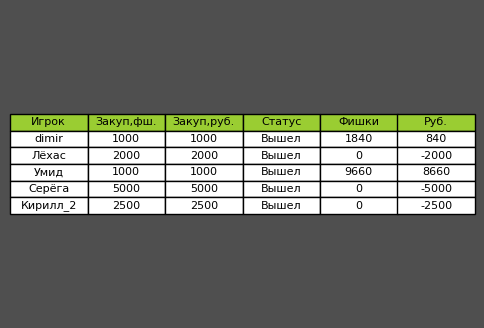
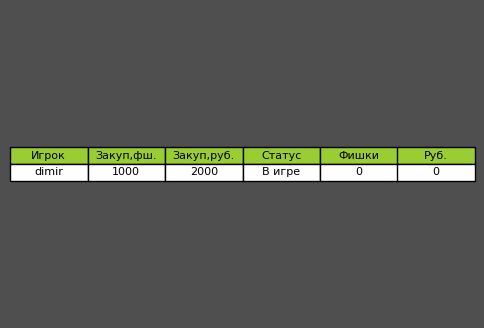
Добавили часть запросов к БД

Changed region(s): [[0.0, 0.3354, 0.9917, 0.6707]]

diff --git a/utils/game_utils.py b/utils/game_utils.py
@@ -9,6 +9,7 @@ from keyboards.inline_kbs import (input_player_game_kb, start_game_kb, game_keyb
                                   back_players_keyboards, extra_players_keyboards)
 from db_hadler.db_class import Database
 from create_bot import bot
+from servise import create_game_db, get_players_db
 
 pd.set_option('display.max_columns', None)  # Настройка таблицы pandas
 game_users = list()  # Список всех игроков в базе данных
@@ -43,7 +44,9 @@ def player_input(text):
 async def update_users():
     """Обновляем список игроков с базы данных"""
     global game_users
-    game_users = await Database.get_users_bd()
+    users = await get_players_db()
+    game_users = [user.login for user in users]
+    # game_users = await Database.get_users_bd()
 
 
 async def get_users():
@@ -62,7 +65,7 @@ async def get_count():
     return count
 
 
-def get_players():
+async def get_players():
     """Получить список игроков текущей игры"""
     return player_list
 
@@ -244,11 +247,12 @@ async def text_game():
 
 async def game_utils(call: CallbackQuery):
     """Оформление сообщения процесса игры"""
-    global start_status
+    global start_status, date, game_id
     if not start_status:
-        await Database.insert_new_game(count=count)
-        await update_date()
-        await update_game_id()
+        date, game_id = await create_game_db(count=count)
+        # await Database.insert_new_game(count=count)
+        # await update_date()
+        # await update_game_id()
         text = await text_game()
         photo = FSInputFile('game_image.png')
         start_status = True

diff --git a/handlers/player.py b/handlers/player.py
@@ -7,9 +7,7 @@ from aiogram.fsm.state import State, StatesGroup
 from aiogram.utils.chat_action import ChatActionSender
 
 from create_bot import bot
-from db_hadler.db_class import Database
-from db_hadler.database import db
-from repositories import PlayerRepository
+from servise import create_player_db
 
 player_router = Router()
 
@@ -48,16 +46,5 @@ async def new_player_end(message: Message, state: FSMContext):
     await state.clear()
     async with ChatActionSender.typing(bot=bot, chat_id=message.from_user.id):
         await asyncio.sleep(2)
-
-
-
-        async with db.session() as session:
-            repo = PlayerRepository(session)
-            player = await repo.get_by_login(message.text)
-
-            if player:
-                await message.answer("Вы уже зарегистрированы!")
-                return
-
-            player = await repo.create(message.text)
-            await message.answer(f'Готовь свои бабки 💲 {player.login}', reply_markup=None)
+        result = await create_player_db(message.text)
+        await message.answer(result, reply_markup=None)

diff --git a/alembic/versions/877da2a2d961_initial_migration.py b/alembic/versions/877da2a2d961_initial_migration.py
@@ -1,0 +1,32 @@
+"""Initial migration
+
+Revision ID: 877da2a2d961
+Revises: 163047d77095
+Create Date: 2025-05-22 23:07:51.129143
+
+"""
+from typing import Sequence, Union
+
+from alembic import op
+import sqlalchemy as sa
+
+
+# revision identifiers, used by Alembic.
+revision: str = '877da2a2d961'
+down_revision: Union[str, None] = '163047d77095'
+branch_labels: Union[str, Sequence[str], None] = None
+depends_on: Union[str, Sequence[str], None] = None
+
+
+def upgrade() -> None:
+    """Upgrade schema."""
+    # ### commands auto generated by Alembic - please adjust! ###
+    pass
+    # ### end Alembic commands ###
+
+
+def downgrade() -> None:
+    """Downgrade schema."""
+    # ### commands auto generated by Alembic - please adjust! ###
+    pass
+    # ### end Alembic commands ###

diff --git a/servise/player.py b/servise/player.py
@@ -1,0 +1,22 @@
+from db_hadler.database import db
+from repositories import PlayerRepository
+
+
+async def create_player_db(login: str):
+    async with db.session() as session:
+        repo = PlayerRepository(session)
+        player = await repo.get_by_login(login)
+
+        if player:
+            return "Вы уже зарегистрированы!"
+
+        player = await repo.create(login)
+        return f'Готовь свои бабки 💲 {player.login}'
+
+
+async def get_players_db():
+    async with db.session() as session:
+        repo = PlayerRepository(session)
+        players = await repo.get_all_login()
+        print(players)
+        return players

diff --git a/repositories/game.py b/repositories/game.py
@@ -10,8 +10,8 @@ class GameRepository(BaseRepository):
         )
         return result.scalar_one_or_none()
 
-    async def create(self, login: str) -> Game:
-        player = Game(login=login)
-        self.session.add(player)
+    async def create(self, count: int) -> Game:
+        game = Game(count=count)
+        self.session.add(game)
         await self.session.flush()
-        return player
+        return game

diff --git a/models/game.py b/models/game.py
@@ -19,7 +19,7 @@ class Game(Base):
     id: Mapped[int] = mapped_column(autoincrement=True, primary_key=True, index=True)
     date: Mapped[TIMESTAMP] = mapped_column(TIMESTAMP, default=datetime.utcnow)
     count: Mapped[int]
-    game: Mapped[JSON] = mapped_column(JSON)
+    game: Mapped[JSON] = mapped_column(JSON, default={})
 
     players: Mapped[List["Player"]] = relationship(
         "Player",

diff --git a/servise/game.py b/servise/game.py
@@ -1,0 +1,10 @@
+from db_hadler.database import db
+from repositories import GameRepository
+
+
+async def create_game_db(count: int):
+    async with db.session() as session:
+        repo = GameRepository(session)
+
+        game = await repo.create(count)
+        return game.date, game.id

diff --git a/servise/__init__.py b/servise/__init__.py
@@ -1,0 +1,4 @@
+from servise.player import create_player_db, get_players_db
+from servise.game import create_game_db
+
+__all__ = ["create_player_db", "get_players_db", "create_game_db"]
